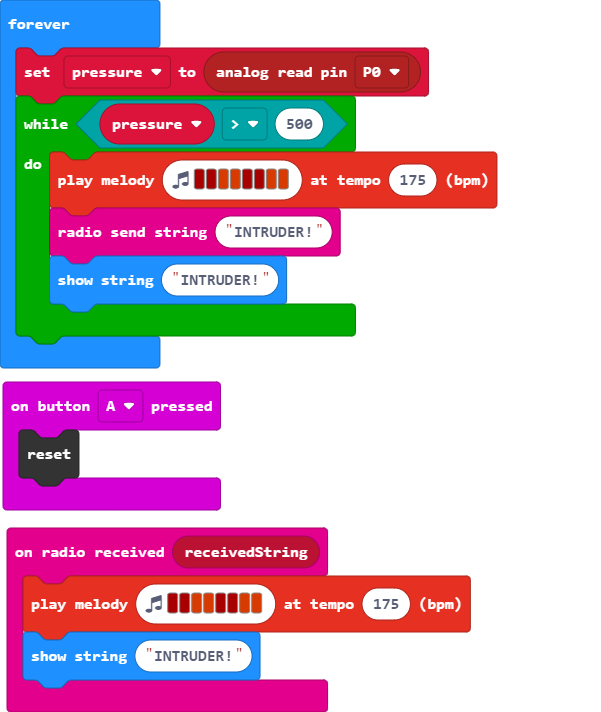
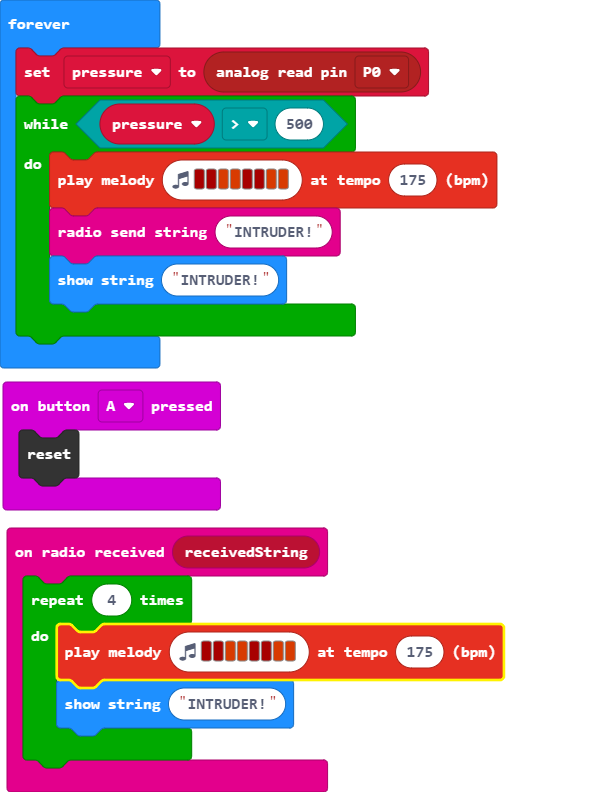
Update main.blocks, main.ts

diff --git a/main.ts b/main.ts
@@ -3,8 +3,10 @@ input.onButtonPressed(Button.A, function () {
     control.reset()
 })
 radio.onReceivedString(function (receivedString) {
-    music.playMelody("C5 C5 B B C5 C5 B B ", 175)
-    basic.showString("INTRUDER!")
+    for (let index = 0; index < 4; index++) {
+        music.playMelody("C5 C5 B B C5 C5 B B ", 175)
+        basic.showString("INTRUDER!")
+    }
 })
 basic.forever(function () {
     pressure = pins.analogReadPin(AnalogPin.P0)
